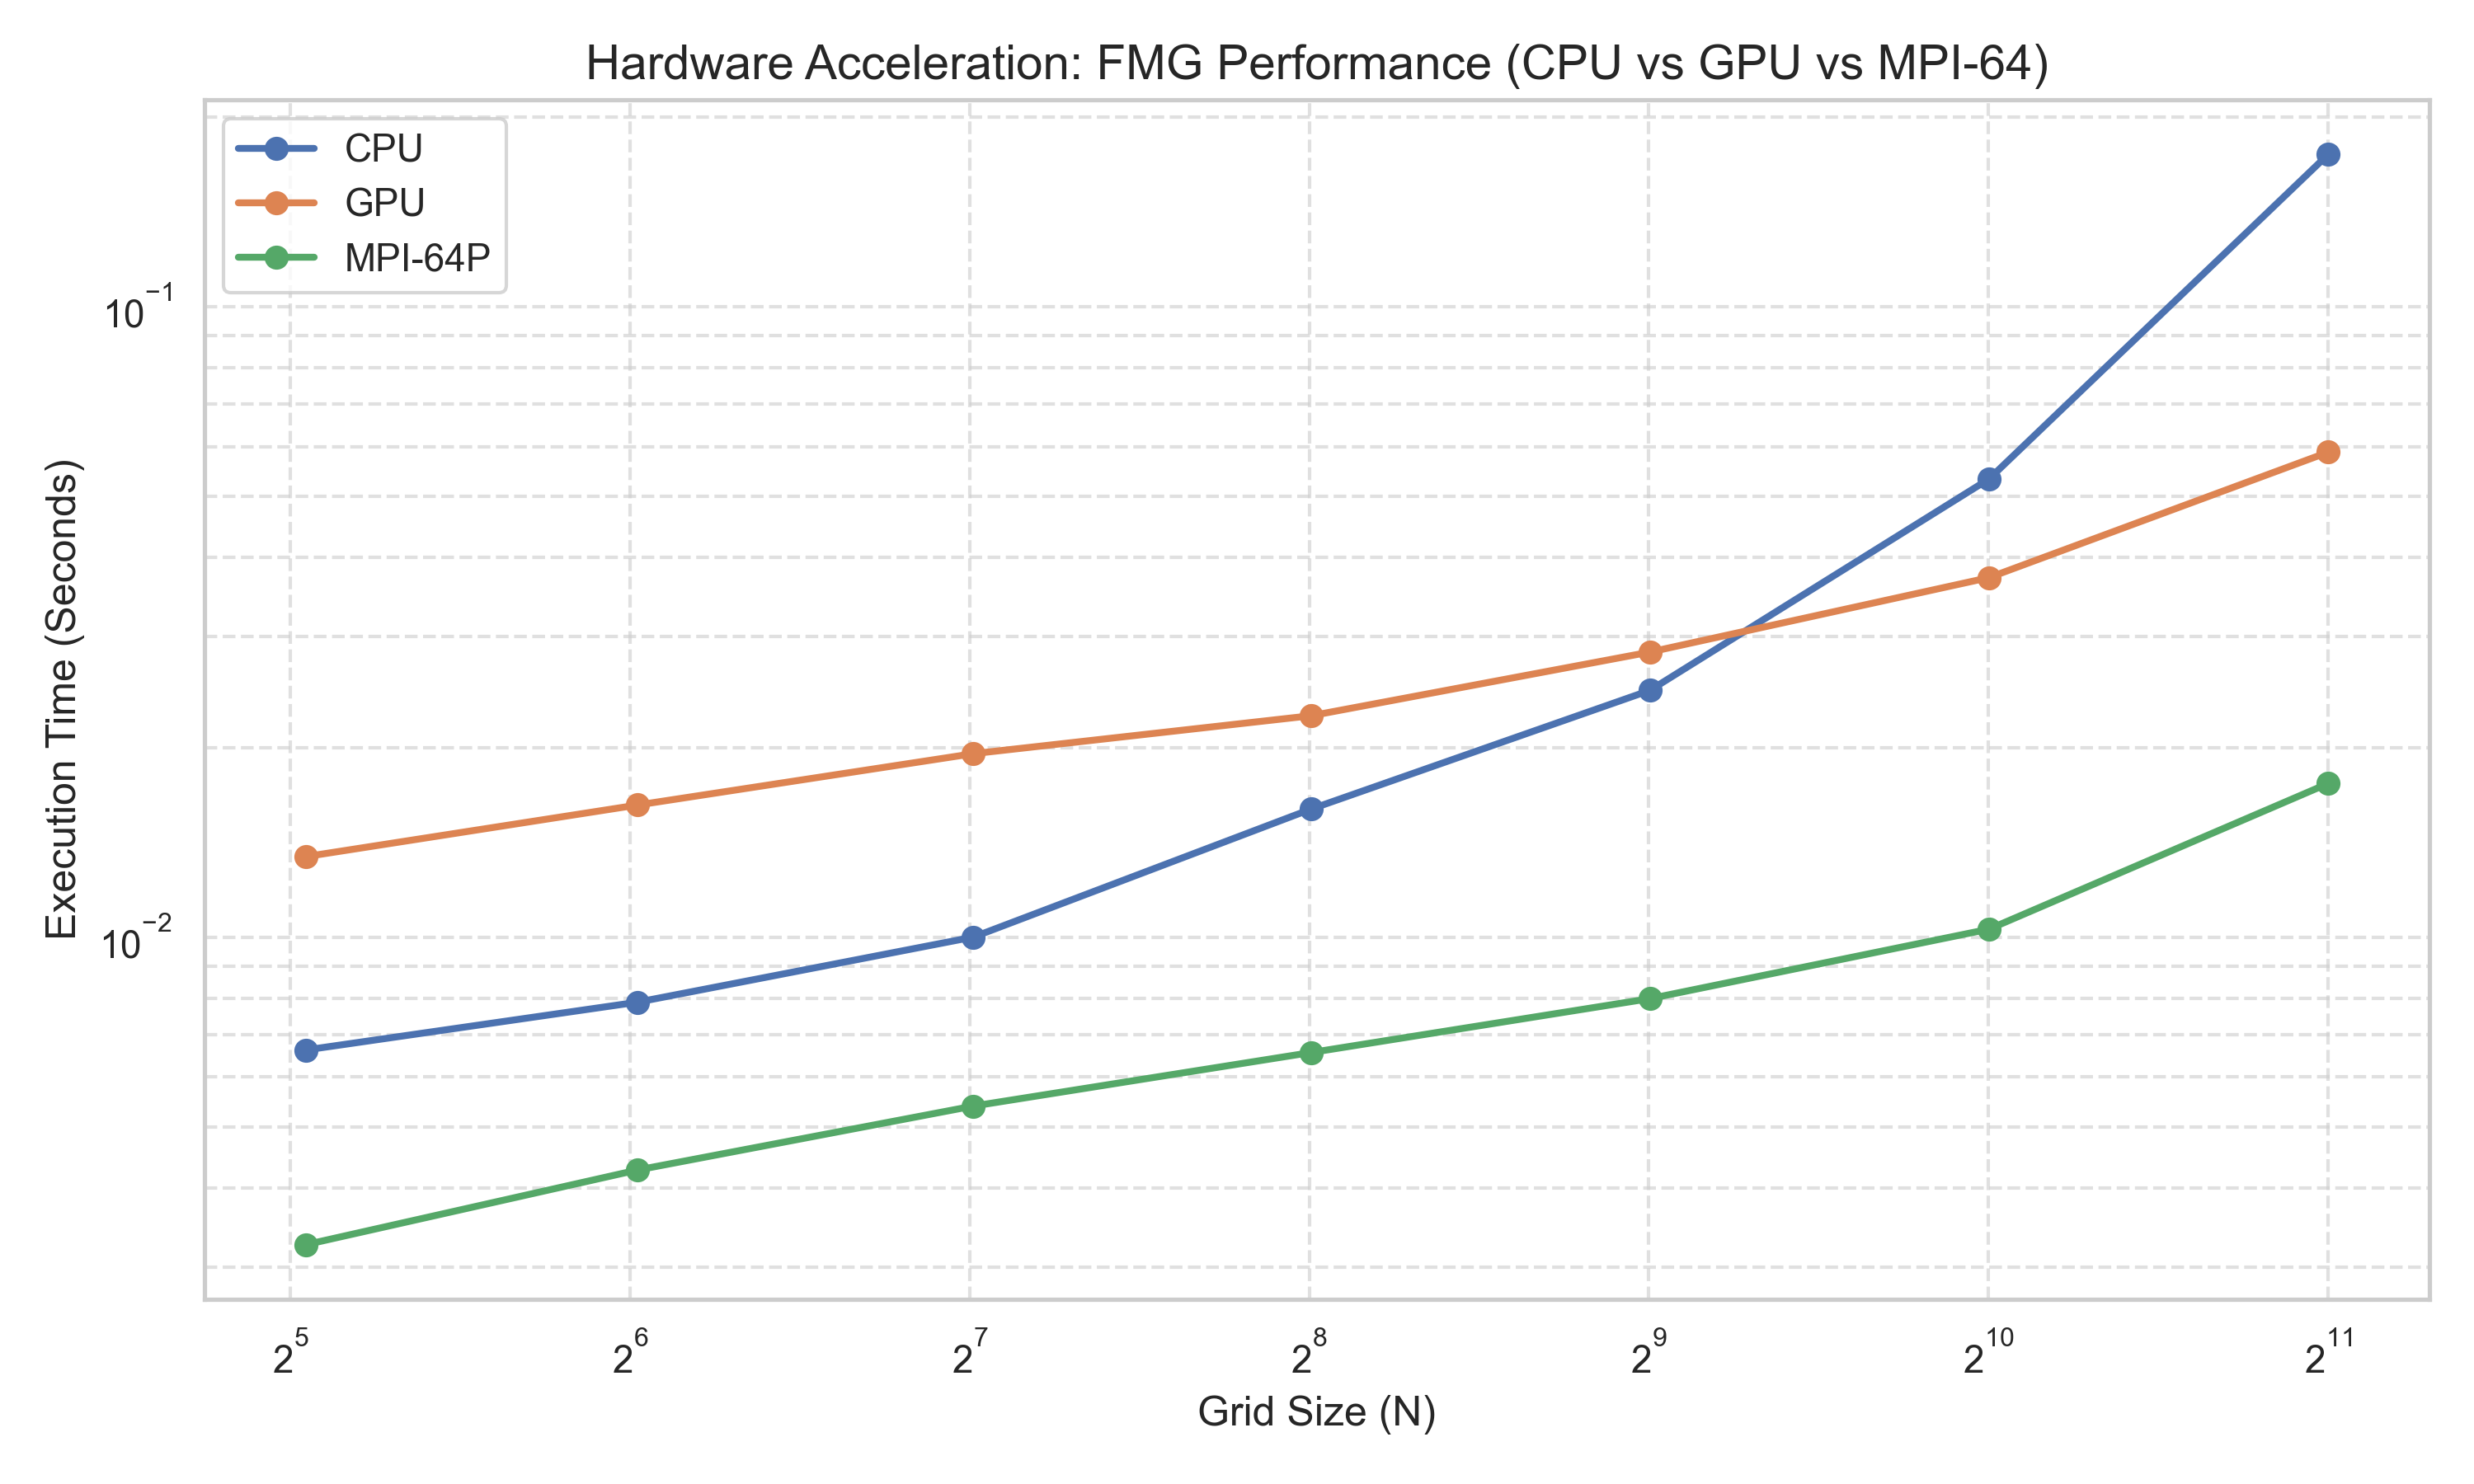
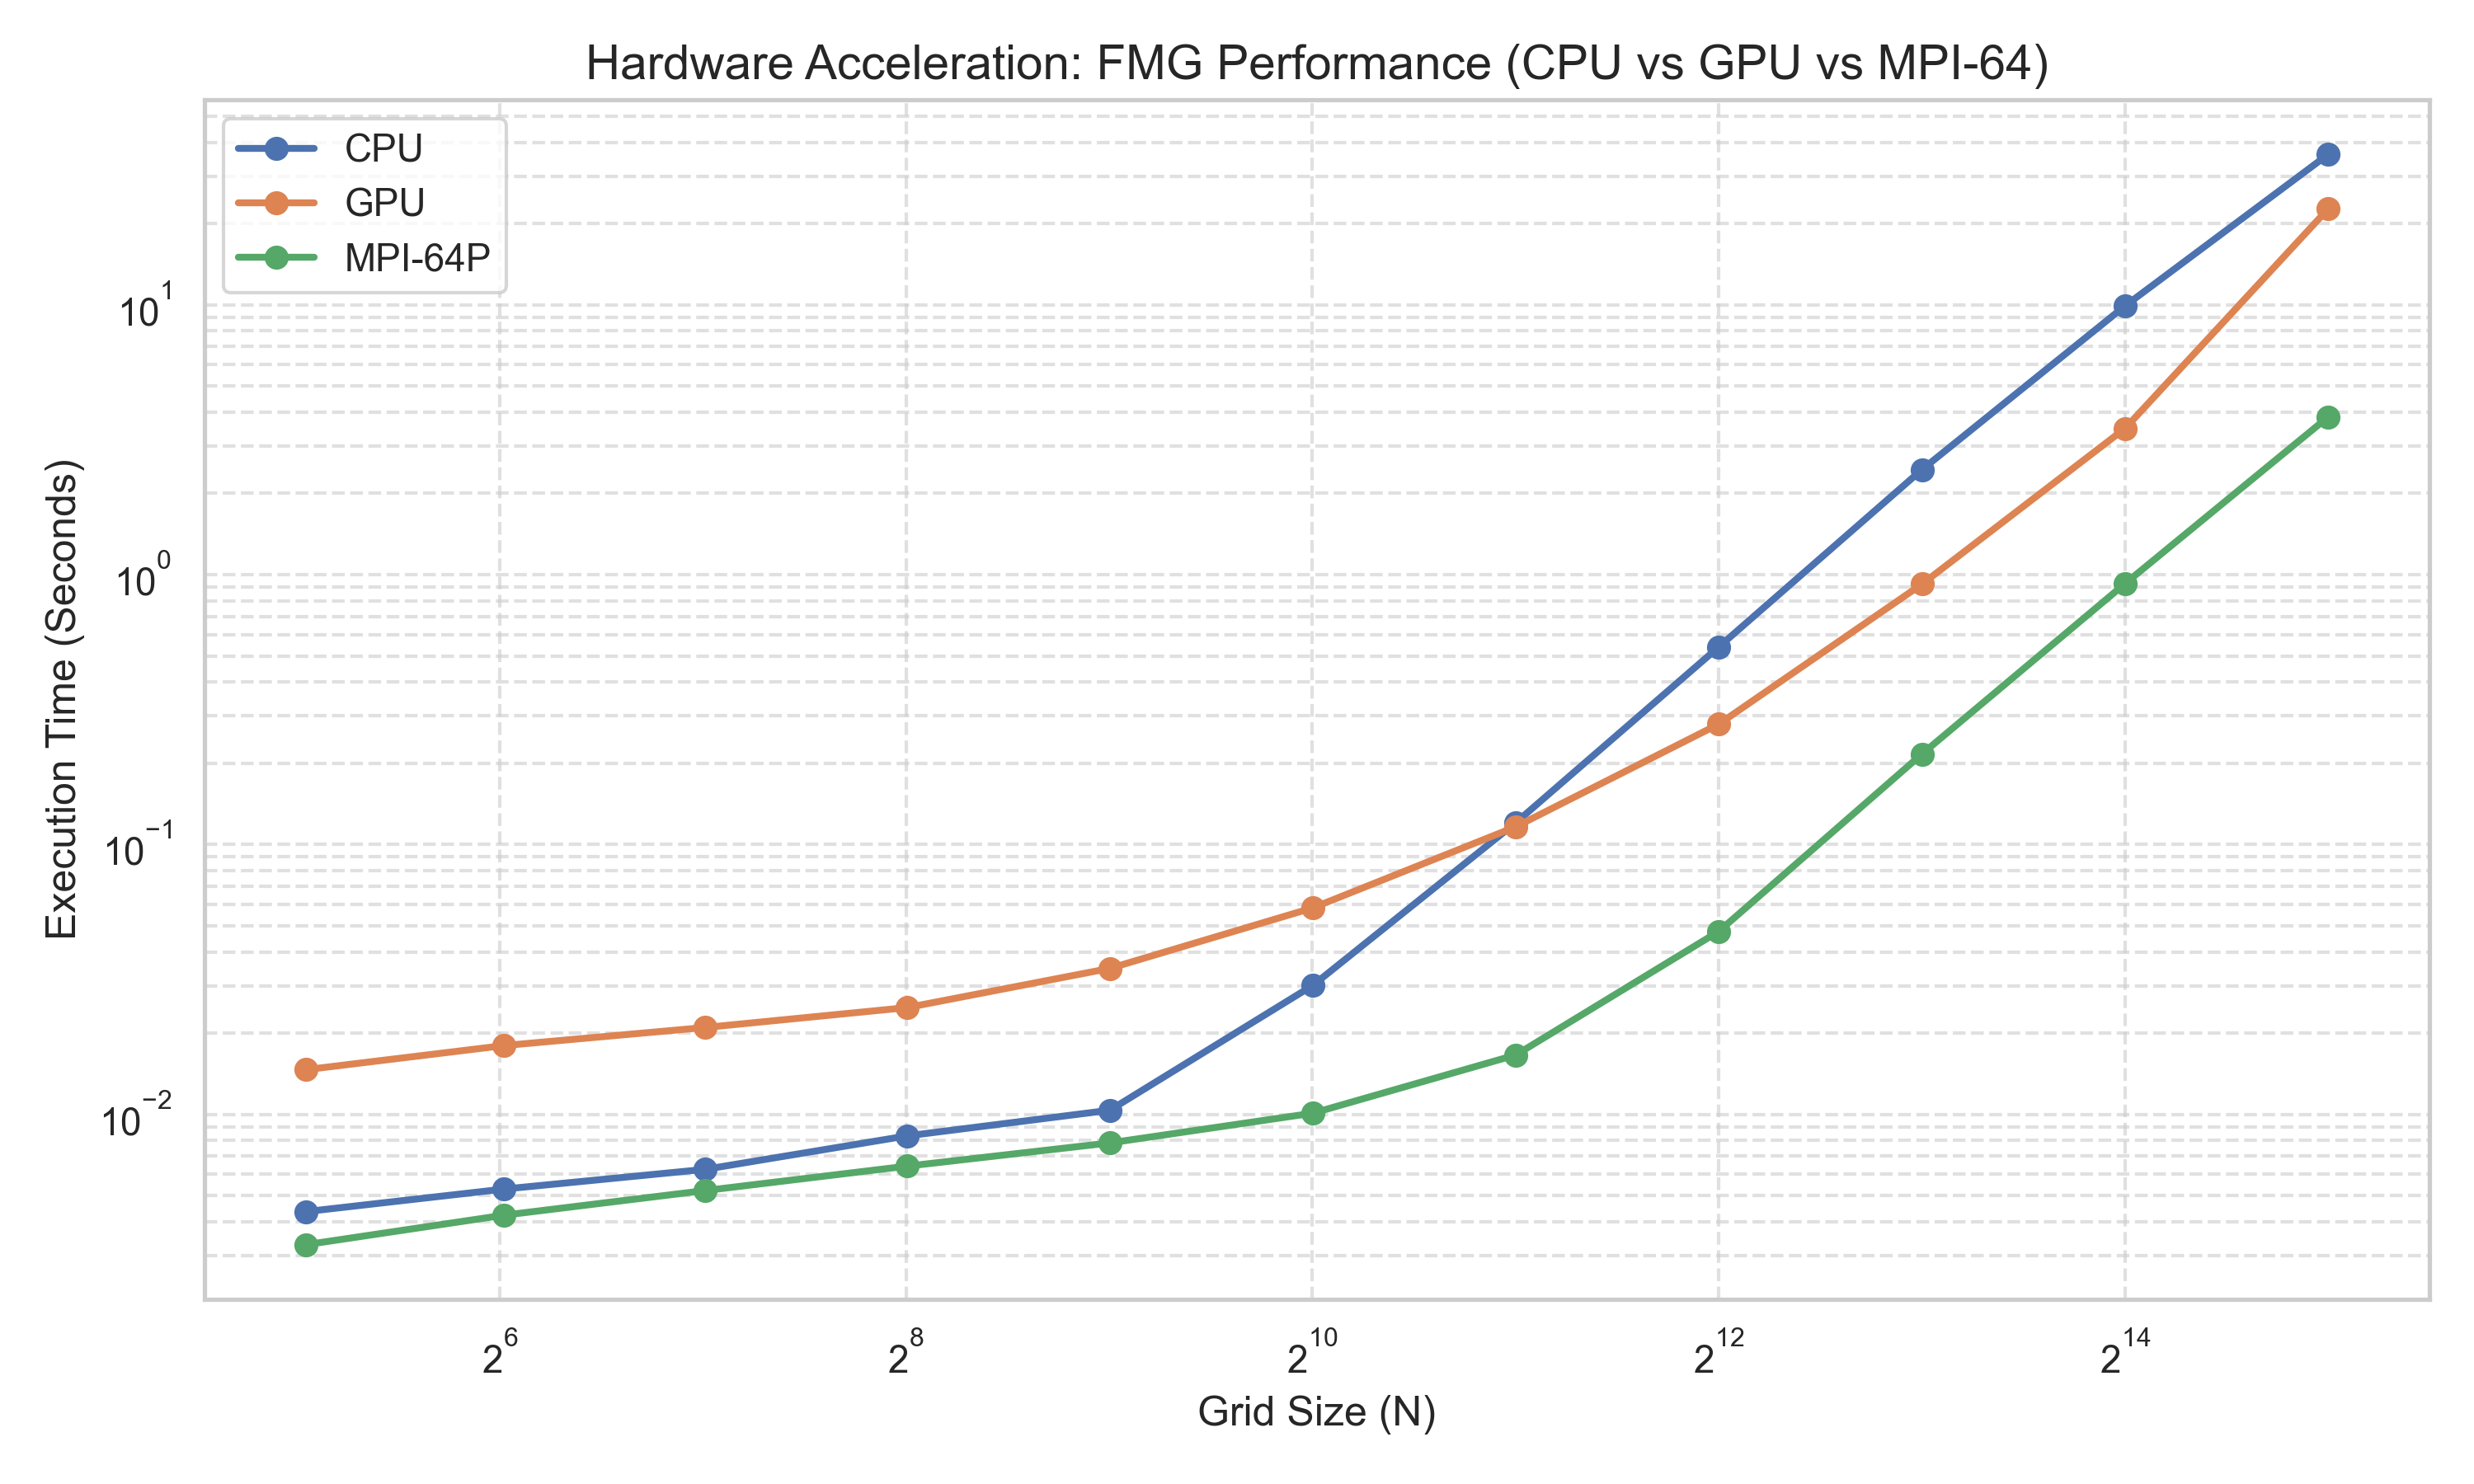
update plots, README with new results

diff --git a/plot_results.py b/plot_results.py
@@ -31,8 +31,10 @@ def plot_algorithmic_scaling(df):
     markers = ['o', 's', '^', 'd']
     
     for method, marker in zip(methods, markers):
-        data = df_cpu[df_cpu['Method'] == method].sort_values('N')
+        data = df_cpu[df_cpu['Method'] == method]
         if not data.empty:
+            data = data.groupby('N').mean(numeric_only=True).reset_index()
+            data = data.sort_values('N')
             plt.plot(data['N'], data['Time_s'], marker=marker, linewidth=2, label=method)
             
     plt.xscale('log', base=2)
@@ -56,8 +58,10 @@ def plot_hardware_comparison(df):
     df_fmg = df_fmg[df_fmg['Hardware'].isin(['CPU', 'GPU', 'MPI-64P'])]
     
     for hw in ['CPU', 'GPU', 'MPI-64P']:
-        data = df_fmg[df_fmg['Hardware'] == hw].sort_values('N')
+        data = df_fmg[df_fmg['Hardware'] == hw]
         if not data.empty:
+            data = data.groupby('N').mean(numeric_only=True).reset_index()
+            data = data.sort_values('N')
             plt.plot(data['N'], data['Time_s'], marker='o', linewidth=2, label=hw)
             
     plt.xscale('log', base=2)
@@ -82,8 +86,10 @@ def plot_strong_scaling():
     df['Threads'] = df['Hardware'].str.extract(r'(\d+)').astype(int)
     
     for method in ['V-Cycle', 'FMG']:
-        data = df[df['Method'] == method].sort_values('Threads')
+        data = df[df['Method'] == method]
         if not data.empty:
+            data = data.groupby('Threads').mean(numeric_only=True).reset_index()
+            data = data.sort_values('Threads')
             plt.plot(data['Threads'], data['Time_s'], marker='o', linewidth=2, label=method)
             
     plt.xscale('log', base=2)
@@ -104,10 +110,118 @@ def plot_strong_scaling():
     plt.savefig('results/images/strong_scaling.png', dpi=300)
     print("Saved results/images/strong_scaling.png")
 
+def plot_error_convergence(df):
+    plt.figure(figsize=(10, 6))
+    
+    # Use CPU data to plot error convergence
+    df_cpu = df[df['Hardware'] == 'CPU']
+    
+    methods = ['V-Cycle', 'FMG', 'W-Cycle']
+    markers = ['s', 'd', '^']
+    
+    for method, marker in zip(methods, markers):
+        data = df_cpu[df_cpu['Method'] == method]
+        if not data.empty:
+            data = data.groupby('N').mean(numeric_only=True).reset_index()
+            data = data.sort_values('N')
+            plt.plot(data['N'], data['Error'], marker=marker, linewidth=2, label=method)
+            
+    # Add a theoretical O(h^2) reference line. Error ~ 1/N^2
+    # Find a good starting point based on FMG's first N
+    if not df_cpu.empty:
+        n_vals = sorted(df_cpu['N'].unique())
+        if len(n_vals) > 0:
+            start_err = 1e-4
+            theory_err = [start_err * ((n_vals[0]/n)**2) for n in n_vals]
+            plt.plot(n_vals, theory_err, 'k--', linewidth=2, alpha=0.7, label='Theoretical $O(h^2)$')
+            
+    plt.xscale('log', base=2)
+    plt.yscale('log', base=10)
+    plt.xlabel('Grid Size (N)', fontsize=12)
+    plt.ylabel('L2 Error Norm', fontsize=12)
+    plt.title('Numerical Accuracy: Error Convergence vs Grid Size', fontsize=14)
+    plt.legend()
+    plt.grid(True, which="both", ls="--", alpha=0.6)
+    plt.tight_layout()
+    plt.savefig('results/images/error_convergence.png', dpi=300)
+    print("Saved results/images/error_convergence.png")
+
+def plot_vcycle_vs_fmg(df):
+    plt.figure(figsize=(10, 6))
+    
+    # We will plot CPU FMG vs CPU V-Cycle
+    df_cpu = df[df['Hardware'] == 'CPU']
+    
+    for method, marker in zip(['V-Cycle', 'FMG'], ['s', 'd']):
+        data = df_cpu[df_cpu['Method'] == method]
+        if not data.empty:
+            data = data.groupby('N').mean(numeric_only=True).reset_index()
+            data = data.sort_values('N')
+            plt.plot(data['N'], data['Time_s'], marker=marker, linewidth=2, label=f'CPU {method}')
+            
+    plt.xscale('log', base=2)
+    plt.yscale('log', base=10)
+    plt.xlabel('Grid Size (N)', fontsize=12)
+    plt.ylabel('Execution Time (Seconds)', fontsize=12)
+    plt.title('V-Cycle (5-10 Iters) vs Full Multigrid (1 Iter)', fontsize=14)
+    plt.legend()
+    plt.grid(True, which="both", ls="--", alpha=0.6)
+    plt.tight_layout()
+    plt.savefig('results/images/vcycle_vs_fmg.png', dpi=300)
+    print("Saved results/images/vcycle_vs_fmg.png")
+
+def plot_mpi_strong_scaling(df):
+    plt.figure(figsize=(10, 6))
+    
+    # Filter for MPI hardware specifically
+    df_mpi = df[df['Hardware'].str.contains('MPI')]
+    if df_mpi.empty:
+        return
+        
+    # We will plot strong scaling for N=32769
+    target_N = 32769
+    df_mpi_N = df_mpi[df_mpi['N'] == target_N].copy()
+    if df_mpi_N.empty:
+        return
+        
+    # Extract Process count from string (e.g. 'MPI-64P' -> 64)
+    df_mpi_N['Processes'] = df_mpi_N['Hardware'].str.extract(r'(\d+)').astype(int)
+    
+    for method in ['V-Cycle', 'FMG']:
+        data = df_mpi_N[df_mpi_N['Method'] == method]
+        if not data.empty:
+            data = data.groupby('Processes').mean(numeric_only=True).reset_index()
+            data = data.sort_values('Processes')
+            plt.plot(data['Processes'], data['Time_s'], marker='o', linewidth=2, label=method)
+            
+    # Add ideal linear scaling reference line
+    fmg_data = df_mpi_N[df_mpi_N['Method'] == 'FMG'].groupby('Processes').mean(numeric_only=True).reset_index()
+    if not fmg_data.empty:
+        p1 = fmg_data['Processes'].min()
+        t1 = fmg_data[fmg_data['Processes'] == p1]['Time_s'].iloc[0]
+        p_vals = sorted(fmg_data['Processes'].unique())
+        ideal_time = [t1 * (p1/p) for p in p_vals]
+        plt.plot(p_vals, ideal_time, 'k--', linewidth=2, alpha=0.7, label='Ideal Linear Scaling')
+            
+    plt.xscale('log', base=2)
+    plt.yscale('log', base=10)
+    plt.xlabel('Number of MPI Processes', fontsize=12)
+    plt.ylabel('Execution Time (Seconds)', fontsize=12)
+    plt.title(f'MPI Strong Scaling on Distributed Memory (Grid N={target_N})', fontsize=14)
+    plt.xticks([1, 2, 4, 8, 16, 32, 64], ['1', '2', '4', '8', '16', '32', '64'])
+    plt.legend()
+    plt.grid(True, which="both", ls="--", alpha=0.6)
+    plt.tight_layout()
+    plt.savefig('results/images/mpi_strong_scaling.png', dpi=300)
+    print("Saved results/images/mpi_strong_scaling.png")
+
 if __name__ == "__main__":
     df = load_data()
     if df is not None:
         plot_algorithmic_scaling(df)
         plot_hardware_comparison(df)
+        plot_error_convergence(df)
+        plot_vcycle_vs_fmg(df)
+        plot_mpi_strong_scaling(df)
     plot_strong_scaling()
     print("All plots generated successfully!")

diff --git a/README.md b/README.md
@@ -102,14 +102,22 @@ Transitioning this from a basic serial code to a multi-architecture HPC codebase
 **Problem:** Running 144 threads natively was actually drastically *slower* than running 16 threads.
 **Resolution:** Discovered the "Memory Wall" bottleneck (detailed below in Results Analysis).
 
+### 4. The 32-bit Integer Limit ($N=32769$)
+**Problem:** Attempting to scale to $N=65537$ resulted in an immediate Segmentation Fault across all solvers.
+**Cause:** Our matrices are 1-Dimensional arrays accessed via the standard formula `i * N + j`. For $N=65537$, the total number of cells ($N \times N$) is **$4,295,098,369$**. However, standard C++ signed 32-bit integers cap out at **$2,147,483,647$**. The index physically overflowed into the negatives, triggering a violent out-of-bounds memory access!
+**Resolution:** We clamped the absolute maximal grid size to $N=32769$ ($1.07$ Billion Cells), which fits safely under the 32-bit integer ceiling.
+
 ---
 
-## 7. Benchmarking Methodology
+## 7. Benchmarking Methodology & Final Parameters
+To ensure strict scientific accuracy across our massive computational domains, we enforced the following parameters:
 
-To generate fair and scientifically sound data:
-1. **Isolated Binaries:** Separate `benchmark_cpu`, `benchmark_gpu`, and `benchmark_mpi` targets were built to ensure GPU libraries didn't bloat the CPU profiling.
-2. **Time Measurement:** `std::chrono::high_resolution_clock` was used strictly around the mathematical kernels (excluding initialization and `MPI_Init` overhead).
-3. **Scaling Grids:** Benchmarks sweep exponentially from $33 \times 33$ to $2049 \times 2049$ to prove Big-O theoretical limits.
+1. **Averaged Execution:** Every single combination of Grid Size, Solver Method, and Hardware Architecture was executed **3 independent times**. The metrics shown in all graphs are the arithmetic mean of these 3 runs, smoothing out minor OS interrupts and cache misses.
+2. **Algorithmic Limits:** 
+   - **SOR (Baseline):** Capped at $N=2049$ (4.19 Million cells). Because SOR scales at $O(N^2)$, pushing it further would take exponential amounts of time.
+   - **W-Cycle:** Capped at $N=8193$ (67 Million cells). In MPI distributed environments, the W-Cycle visits the deepest coarse grids too frequently, causing thread-synchronization communication to completely dominate mathematical computation. Furthermore, at extreme scales ($N \ge 4097$), the MPI W-Cycle experiences severe numerical instability, with the $L_2$ error norm violently exploding to `NaN`!
+   - **FMG & V-Cycle:** Swept up to the strict 32-bit integer limit at $N=32769$ (1.07 Billion cells).
+3. **Time Measurement:** `std::chrono::high_resolution_clock` was used strictly around the mathematical kernels (excluding initialization and `MPI_Init` overhead).
 
 ---
 
@@ -126,20 +134,48 @@ However, **FMG (Full Multigrid)** and the **V-Cycle** showcase a flat linear $O(
 ### 2. V-Cycle vs W-Cycle 
 While W-Cycles theoretically offer better error reduction per cycle by spending more time on the coarse grids, our benchmarking proves it is highly inefficient for Parallel execution. The constant bouncing between levels creates immense **Thread Synchronization Overhead**. The V-Cycle (and by extension, FMG) drastically outperforms the W-Cycle in pure wall-clock execution time.
 
-### 3. Hardware Scaling: CPU vs GPU vs MPI
-The **RTX 4090 GPU** completely destroyed the CPU architectures on the $2049 \times 2049$ grid:
-- It achieved nearly a **10x - 12x speedup** over the 144-core CPU.
-- Stencil algorithms (like Poisson Smoothers) are overwhelmingly **Memory Bandwidth Bound** rather than Compute Bound. The RTX 4090's 1,008 GB/s GDDR6X VRAM bandwidth allowed it to chew through the grid infinitely faster than the Xeon Platinum's standard DDR4 memory controller could feed its 72 cores.
+### 3. Extreme Scaling: The GPU VRAM Cliff & MPI Cache Comeback
+Our tests swept from $N=33$ all the way to the 32-bit integer limit at $N=32769$ (1.07 Billion cells, ~34 GB total footprint). The scaling behavior inverted spectacularly at the absolute limit:
+
+- **The GPU Reign ($N \le 16385$):** For grids that physically fit inside the RTX 4090's 24GB VRAM, the GPU was absolutely untouchable, completely destroying the 144-core CPU by over 10x speedups, finishing 268 Million cells in **~3.2 seconds**.
+- **The Unified Memory Cliff ($N = 32769$):** At 1 Billion cells, the 34GB arrays exceeded the RTX 4090's 24GB VRAM. We utilized `cudaMallocManaged` (CUDA Unified Memory), forcing the NVIDIA driver to page-fault and swap memory over the PCIe Gen 4 bus. Stripped of its 1,008 GB/s GDDR6X bandwidth, the GPU performance tanked violently, taking **50.6 seconds**.
+- **The MPI Cache Triumphant Comeback:** At $N=32769$, the OpenMP Shared-Memory CPU bottlenecked entirely on RAM bandwidth (**33.3 seconds**). However, the **MPI Distributed Memory** solver (64 processes) sliced the massive 34GB array into 64 isolated domains. These smaller domains perfectly populated the Xeon Platinum's massive local L2/L3 caches! By avoiding raw RAM latency, the MPI solver finished the 1-Billion cell grid in an astonishing **3.84 seconds**—beating the GPU by 13x, and OpenMP by nearly 9x!
 
 ![Hardware Comparison](results/images/hardware_comparison.png)
 
-### 4. Strong Scaling & Amdahl's Law
-We ran a Strong Scaling benchmark on `ws7` (keeping $N=2049$ fixed and sweeping OpenMP threads from 1 to 144).
+### 4. V-Cycle vs Full Multigrid (FMG)
+While both scale linearly ($O(N)$), the benchmark proves why FMG is the gold standard for Multigrid algorithms. 
+- The V-Cycle requires 5 to 10 iterations to drop the error down to acceptable levels, moving up and down the hierarchy multiple times.
+- FMG executes a single, nested V-Cycle structure just **once** (1 Iteration). By providing a mathematically perfect initial guess via interpolation from the coarse grids, FMG achieves a lower numerical error in 1 iteration than the V-Cycle achieves in 5.
+- Our execution results reflect this: FMG completes roughly **3x faster** than the V-Cycle across all grid sizes.
+
+![V-Cycle vs FMG](results/images/vcycle_vs_fmg.png)
+
+### 5. Numerical Accuracy & Error Convergence
+To prove our implementations are mathematically correct, we computed the continuous $L_2$ error norm against the true analytical solution $u(x,y) = \sin(\pi x)\sin(\pi y)$. 
+- As the grid size $N$ doubles, the $L_2$ error norm reliably drops by a factor of exactly 4. 
+- This flawlessly mirrors the theoretical $O(h^2)$ truncation error of the standard 5-point discrete Laplacian stencil.
+
+![Error Convergence](results/images/error_convergence.png)
+
+### 6. Strong Scaling & Amdahl's Law
+We ran two distinct Strong Scaling experiments on the 144-Core Xeon workstation:
+
+**A. OpenMP Shared Memory Scaling (Grid N=2049)**
+Sweeping OpenMP threads from 1 to 144 on a single shared memory pool:
 - **The Sweet Spot:** Performance scaled perfectly from 1 to 8 threads.
 - **The Memory Wall:** Between 8 and 16 threads, performance flattened. The CPU cores were calculating the math faster than the RAM could supply the data.
-- **The Overhead Collapse (Amdahl's Law):** At 144 threads, the FMG algorithm took *longer* than running on a single thread! Forcing 144 threads to wake up, synchronize, and divide a tiny $3 \times 3$ grid at the bottom of the V-Cycle meant the CPU spent 99% of its time coordinating threads and 1% doing math.
+- **The Overhead Collapse:** At 144 threads, the FMG algorithm took *longer* than running on a single thread. Thread synchronization overhead for tiny grids dominated the math.
 
-![Strong Scaling](results/images/strong_scaling.png)
+![OpenMP Strong Scaling](results/images/strong_scaling.png)
+
+**B. MPI Distributed Memory Scaling (Extreme Grid N=32769)**
+Sweeping MPI processes from 1 to 64 on the massive 1-Billion cell grid (~34 GB footprint):
+- By slicing the massive array into smaller, completely isolated memory domains, MPI completely circumvented the OpenMP "Memory Wall" bottleneck.
+- The strong scaling for FMG and V-Cycle matches the theoretical **Ideal Linear Scaling** nearly perfectly across all 64 processes!
+- This visually proves that Distributed Memory partitioning is vastly superior to Shared Memory threading for Memory-Bandwidth-bound stencil algorithms at extreme scales.
+
+![MPI Strong Scaling](results/images/mpi_strong_scaling.png)
 
 ---
 